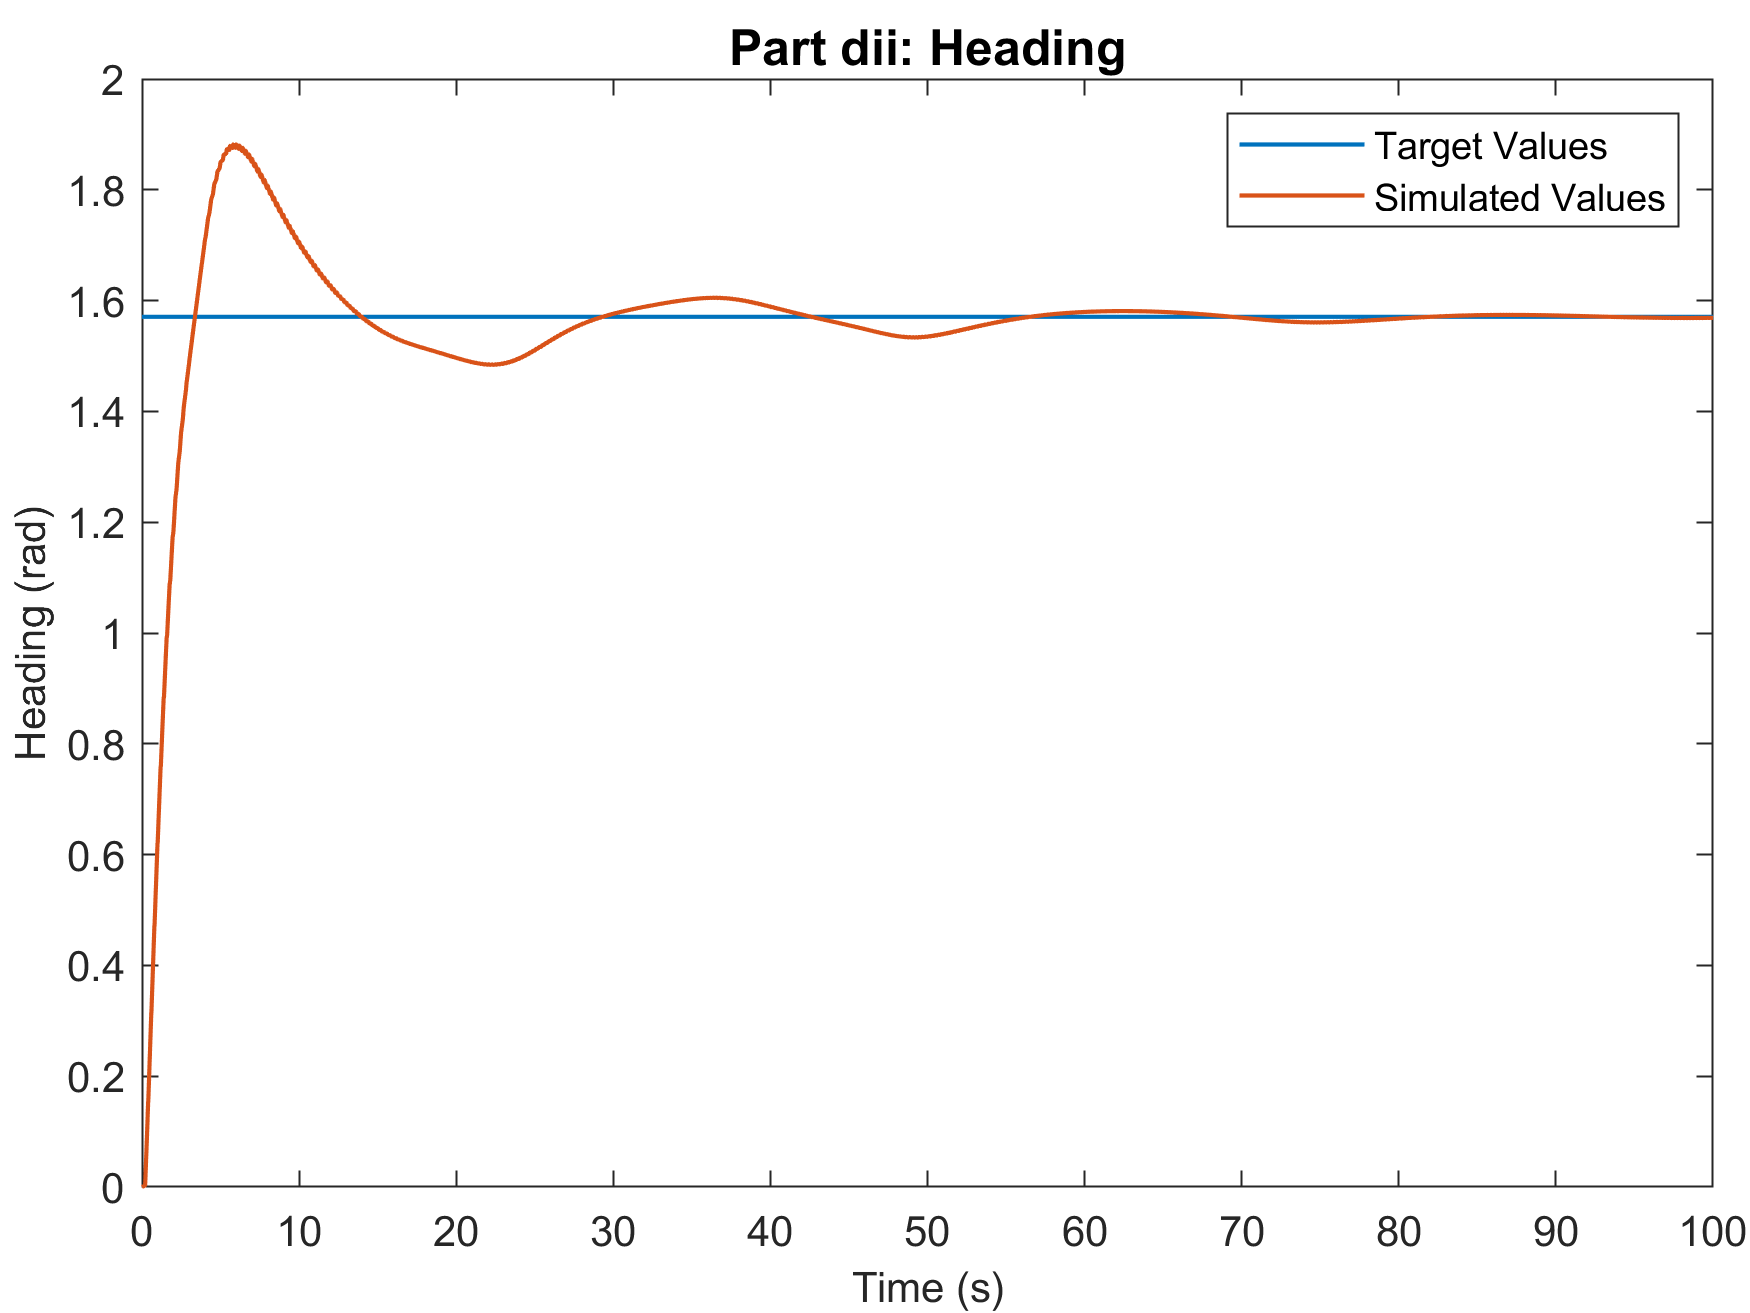
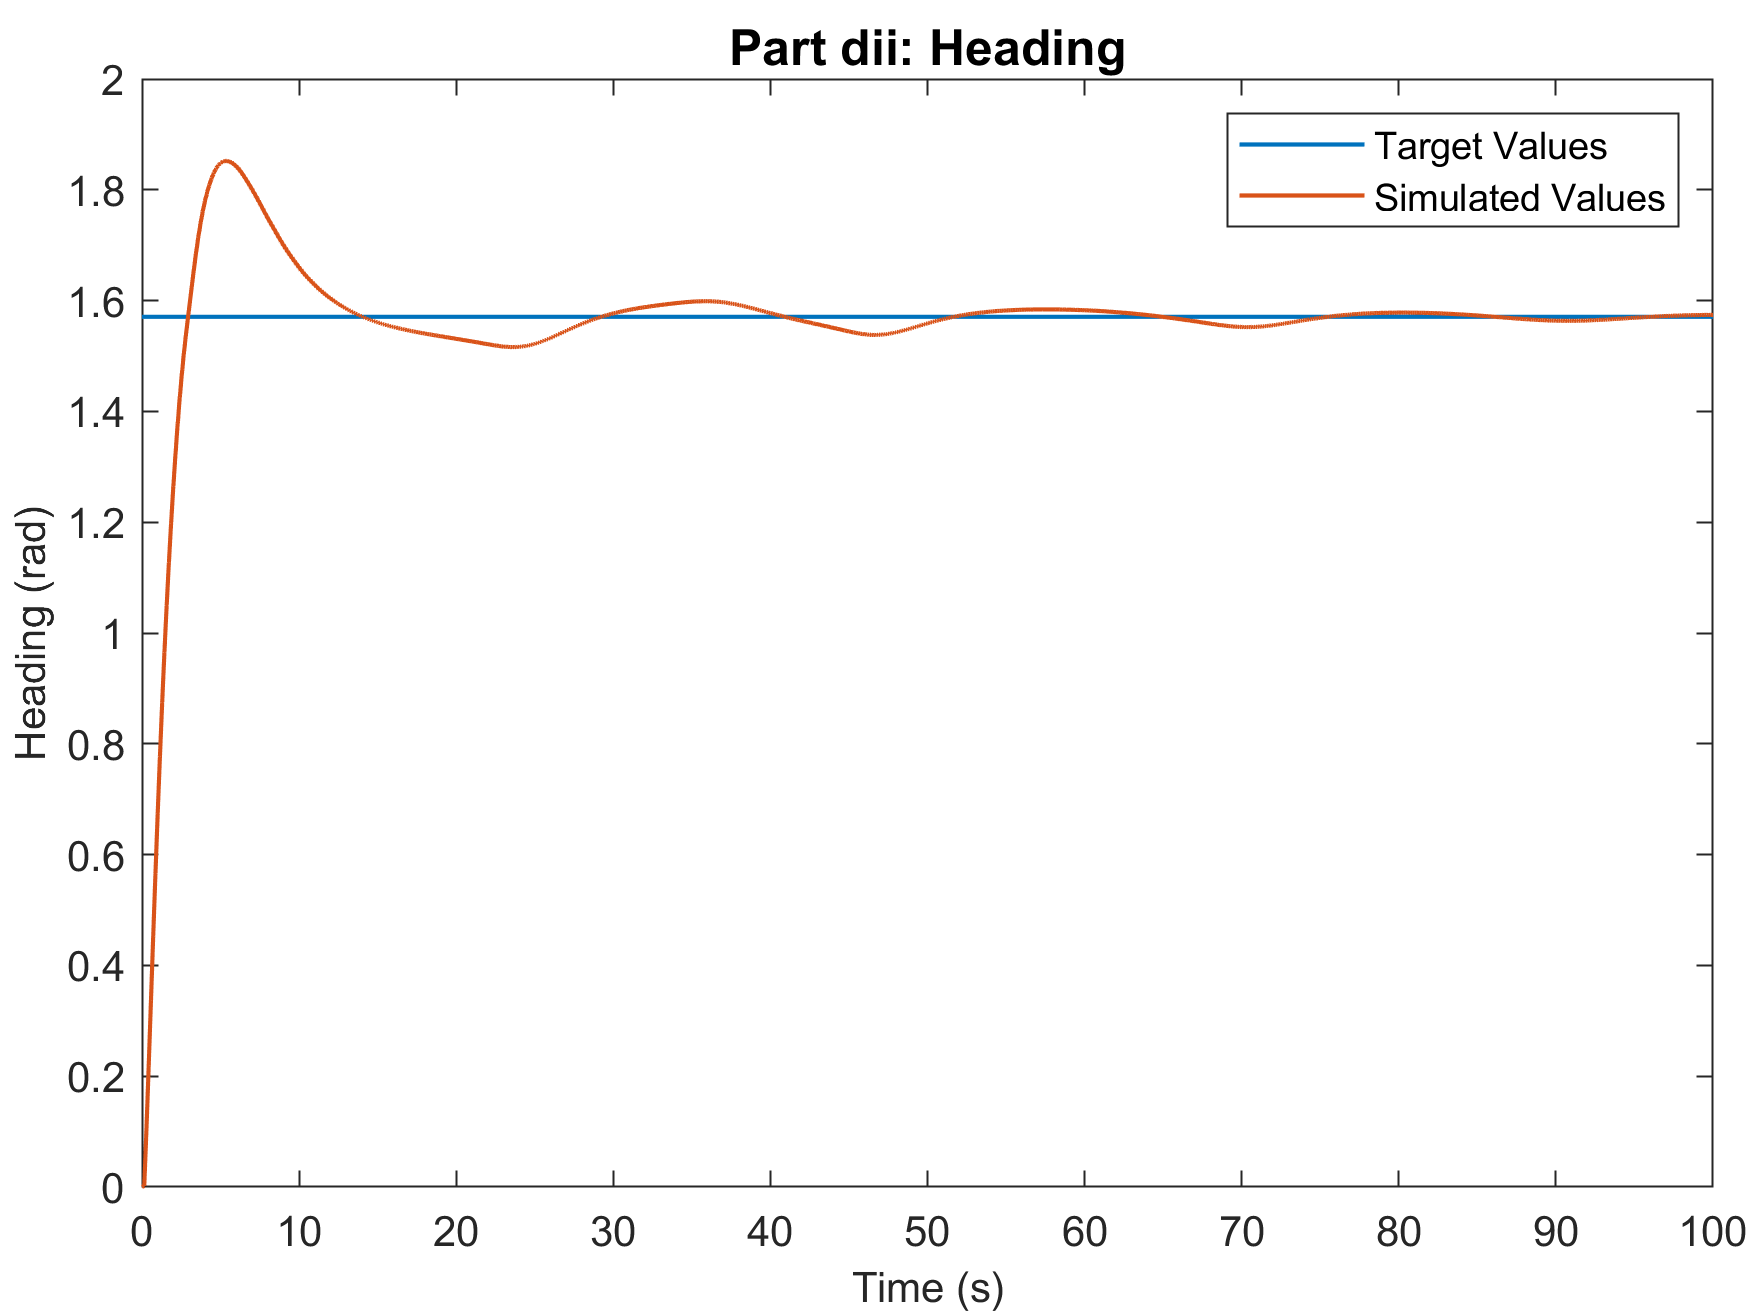
UpdatedGains

diff --git a/blimp_setup.m b/blimp_setup.m
@@ -26,8 +26,8 @@ TODO:
 
 % simulate_blimp(part_num, closed_loop, controller_on, t_final,		   opp_mode)
 %simulate_blimp(		 'di',		  true,			 true,     100, 'altitude hold');
-simulate_blimp(		'dii',		  true,			 true,     100,  'heading hold');
-%simulate_blimp(	   'diii',		  true,			 true,     180,  'circle track');
+%simulate_blimp(		'dii',		  true,			 true,     100,  'heading hold');
+simulate_blimp(	   'diii',		  true,			 true,     180,  'circle track');
 
 
 function simulate_blimp(part_num, closed_loop, controller_on, t_final, opp_mode)
@@ -37,11 +37,12 @@ function simulate_blimp(part_num, closed_loop, controller_on, t_final, opp_mode)
 
 	% Gains found user PID Tuner
 	[Kp_a, Ki_a, Kd_a, N_a] = deal(38, 16, 74, 1.5);
-	[Kp_h, Ki_h, Kd_h, N_h] = deal(75, 0.05, -11, 3.44);
-	[Kp_f, Ki_f, Kd_f, N_f] = deal(96, 17, -67.5, 1.1);
+	[Kp_h, Ki_h, Kd_h, N_h] = deal(75, 0.05, -11, 0.8);
+	[Kp_f, Ki_f, Kd_f, N_f] = deal(172, 36, -92, 0.35);
+
 
 	% freq to switch between velo and heading control [hz]
-	switch_freq		= 5;
+	switch_freq		= 7;
 
     % Speed Catch Up Multiplier for Circle Tracking, 0 when not circle
     speed_mult      = 0;
@@ -83,7 +84,7 @@ function simulate_blimp(part_num, closed_loop, controller_on, t_final, opp_mode)
 		opp_mode		= 2;
 		target_alt		= 1;	% [m]
 		target_head		= pi/2;	% [rad]
-		target_speed	= 1.3;	% [m/s]
+		target_speed	= 0.3;	% [m/s]
 		ya_goal			= target_alt * ones(n, 1);
 		yh_goal			= target_head * ones(n, 1);
 		yf_goal			= target_speed * ones(n, 1);
@@ -191,16 +192,20 @@ function simulate_blimp(part_num, closed_loop, controller_on, t_final, opp_mode)
 		y = radius*cos(slope*t_sim+pi)+radius;
 		x = radius*sin(slope*t_sim);
 
-		% 
-		xPos = xPos(t_sim > 40)
-		yPos = yPos(t_sim > 40)
-		x = x(t_sim > 40)
-		y = y(t_sim > 40)
-		t_sim = t_sim(t_sim > 40) - 40;
-
 		buffer = [0; t_sim];
 		error = sum(sqrt((xPos-x).^2 + (yPos-y).^2) .* (t_sim-buffer(1:end-1)))
 		avg_error = error / t_sim(end)
+
+		% 
+		xPos = xPos(t_sim > 40);
+		yPos = yPos(t_sim > 40);
+		x = x(t_sim > 40);
+		y = y(t_sim > 40);
+		t_sim = t_sim(t_sim > 40) - 40;
+
+		buffer = [0; t_sim];
+		SS_error = sum(sqrt((xPos-x).^2 + (yPos-y).^2) .* (t_sim-buffer(1:end-1)));
+		SS_avg_error = SS_error / t_sim(end);
 
 
 	end
